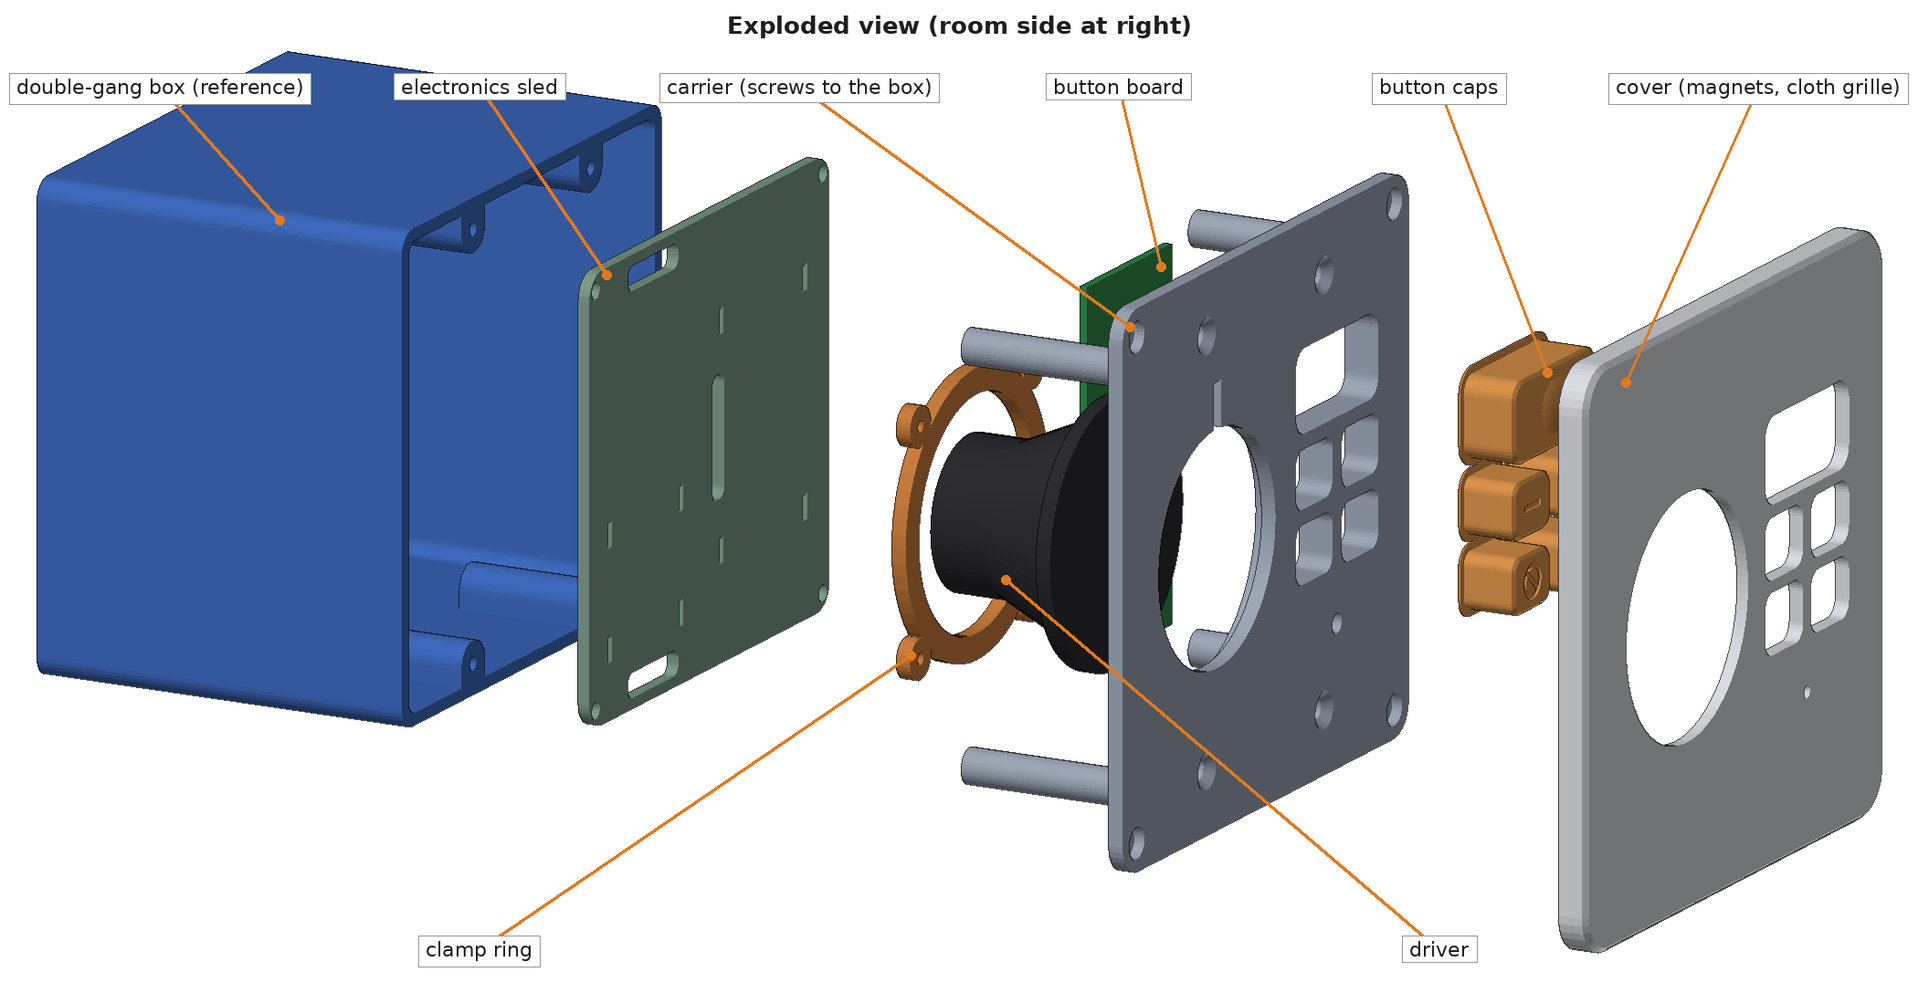
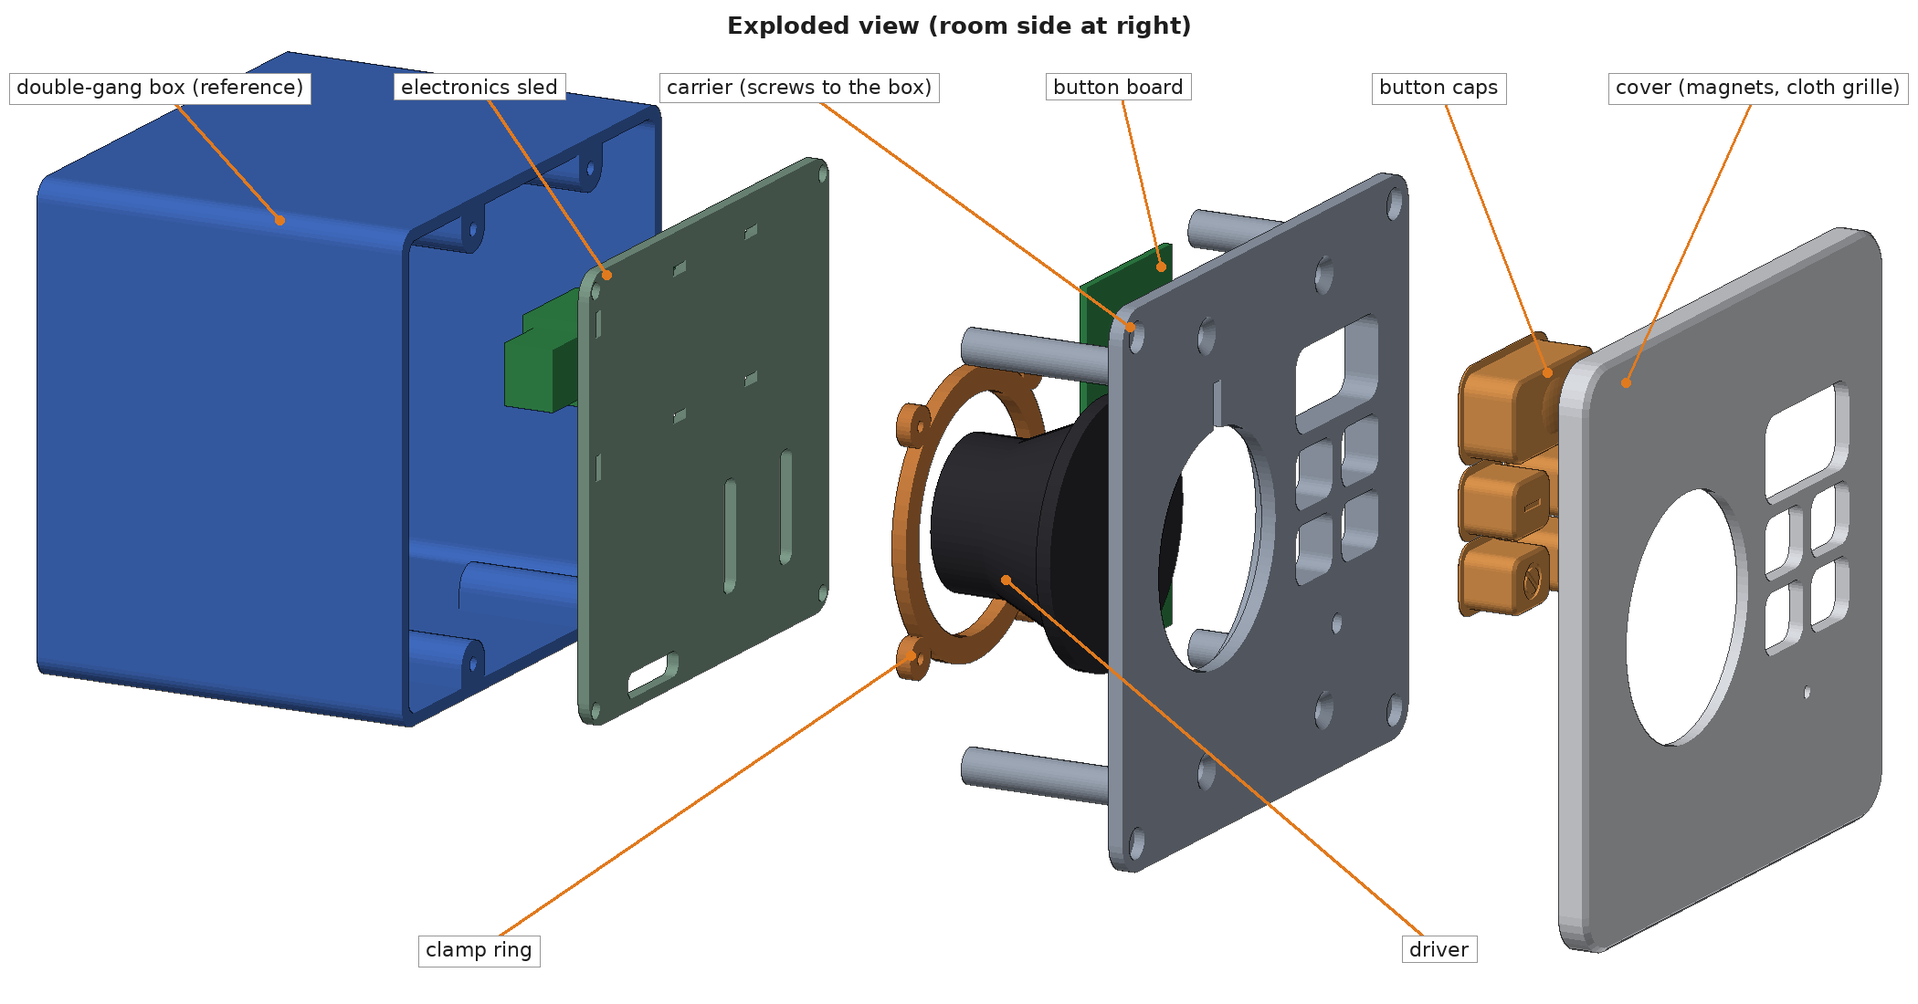
In-wall endpoint: PoE over Ethernet is the only power option
- Design: in-wall power is PoE only, wired Ethernet only; local supply
  and Wi-Fi options removed for this endpoint
- Sled: tray for a Waveshare ESP32-S3-ETH PoE board with its RJ45 jack
  at the edge, cable tie-down slots, amp tray moved
- Fit checks now include the board, jack, PoE module, and plug
- READMEs updated

Claude-Session: https://claude.ai/code/session_011vYEgnES57SmJcMte2QXM3

Changed region(s): [[0.2476, 0.2473, 0.3714, 0.4327], [0.3714, 0.3709, 0.4333, 0.5873]]

diff --git a/hardware/inwall/inwall_endpoint.py b/hardware/inwall/inwall_endpoint.py
@@ -5,8 +5,8 @@ Printed parts (PETG, no supports):
   carrier.stl       plate that screws to the box's four device holes and carries everything:
                     driver seat, button collars and board standoffs, mic pocket, LED groove,
                     and four posts for the electronics sled (print front face down)
-  sled.stl          plate that screws to the carrier posts behind the driver; holds the ESP32
-                    and amp (print flat, trays up)
+  sled.stl          plate that screws to the carrier posts behind the driver; holds the PoE
+                    ESP32 board and the amp (print flat, trays up)
   cover.stl         cosmetic wall plate held on by magnets; hides the screws, holds the grille
                     cloth (print front face down)
   button_caps.stl   TALK, VOL-, VOL+, MIC MUTE, BACKGROUND (print tops down)
@@ -99,7 +99,14 @@ SLED_Z = -38.0                     # front face of the sled; clears the 30.8 mm 
 SLED_T = 2.4
 SLED_W, SLED_H, SLED_R = 94.0, 87.0, 5.0
 M3_INSERT_D, M3_INSERT_DEPTH = 4.0, 6.0
-ESP_BOARD = (26.4, 70.5)           # ESP32-S3-DevKitC-1 footprint; change for a PoE board VERIFY
+# Waveshare ESP32-S3-ETH with its PoE module (the -POE- version): 72.8 x 21 mm, RJ45 at one end.
+# Power and data both come over the one Ethernet cable. Use the board without header pins, or
+# wire to the pads; the tray supports the board at its two ends so the pad rows stay clear. VERIFY
+ESP_BOARD = (72.8, 21.0)           # length along x, width along y
+ESP_X0, ESP_Y0 = -33.5, 11.5      # board corner on the sled; RJ45 jack is at the -x end
+ESP_LEDGE_H = 3.0
+ESP_STACK_H = 14.0                 # RJ45 jack and PoE module height above the board VERIFY
+RJ45_PLUG_LEN = 12.0               # how far an unbooted plug sticks out past the board VERIFY
 AMP_BOARD = (19.8, 18.2)           # MAX98357A breakout
 
 # Cover (wall plate)
@@ -214,33 +221,44 @@ def ledge_tray(x0, y0, bw, bl, z0, ledge_h=3.0, ledge=1.6, side_h=3.0, t=1.6):
     return union(parts)
 
 
+def end_tray(x0, y0, bl, bw, z0, ledge_h, side_h=3.0, t=1.6, ledge=4.0):
+    """Board rests on a ledge at each short end; corner walls locate it. The long edges stay
+    open for the pad rows, and the -x end is open for the RJ45 plug."""
+    parts = []
+    for xa in (x0, x0 + bl - ledge):
+        parts.append(box(xa, xa + ledge, y0, y0 + bw, z0, z0 + ledge_h))
+    for ya in (y0 - t, y0 + bw):                       # side walls at the four corners
+        for xa in (x0, x0 + bl - 10.0):
+            parts.append(box(xa, xa + 10.0, ya, ya + t, z0, z0 + ledge_h + side_h))
+    parts.append(box(x0 + bl, x0 + bl + t, y0 - t, y0 + bw + t, z0, z0 + ledge_h + side_h))   # stop at the +x end
+    return union(parts)
+
+
 def build_sled_local():
     """Sled in its print orientation: plate on z = 0..SLED_T, trays upward."""
     plate = rrect(0, 0, SLED_W, SLED_H, SLED_R, 0, SLED_T)
     adds = [plate]
-    ew, el = ESP_BOARD
-    ex0, ey0 = 8.0, -el / 2
-    adds.append(ledge_tray(ex0, ey0, ew, el, SLED_T - 0.01))
+    el, ew = ESP_BOARD
+    adds.append(end_tray(ESP_X0, ESP_Y0, el, ew, SLED_T - 0.01, ESP_LEDGE_H))
     aw, al = AMP_BOARD
-    ax0, ay0 = -34.0, 14.0
+    ax0, ay0 = -34.0, -32.0
     adds.append(ledge_tray(ax0, ay0, aw, al, SLED_T - 0.01))
-    # stiffening rib between the trays
-    adds.append(box(-2.0, 0.0, -SLED_H / 2 + 6, SLED_H / 2 - 6, SLED_T - 0.01, SLED_T + 4.0))
+    # stiffening rib between the two boards
+    adds.append(box(-SLED_W / 2 + 8, SLED_W / 2 - 8, 0.0, 2.0, SLED_T - 0.01, SLED_T + 4.0))
     sled = union(adds)
     cuts = []
     for x, y in POST_PTS:
         cuts.append(cyl(x, y, -1, SLED_T + 1, 3.4, seg=24))
-    # zip-tie slots: across the ESP32 and amp boards, and a free area for a PoE splitter
-    for y in (-22.0, 22.0):
-        for x in (ex0 - 4.2, ex0 + ew + 2.2):
-            cuts.append(box(x, x + 2.0, y - 2.5, y + 2.5, -1, SLED_T + 1))
-    for y in (-30.0, -8.0):
-        for x in (-40.0, -12.0):
-            cuts.append(box(x, x + 2.0, y - 2.5, y + 2.5, -1, SLED_T + 1))
-    # wire pass-through windows (speaker, buttons, mic)
-    cuts.append(rrect(-22.0, 39.0, 20.0, 5.0, 2.0, -1, SLED_T + 1))
+    # zip-tie slots across the ESP32 board, and a strain-relief pair for the Ethernet cable
+    for x in (ESP_X0 + 22.0, ESP_X0 + 50.0):
+        for y in (ESP_Y0 - 4.6, ESP_Y0 + ew + 2.6):
+            cuts.append(box(x - 2.5, x + 2.5, y, y + 2.0, -1, SLED_T + 1))
+    for y in (6.0, 33.5):
+        cuts.append(box(-44.5, -42.5, y - 2.5, y + 2.5, -1, SLED_T + 1))
+    # wire pass-through windows (speaker, buttons, mic, LED)
     cuts.append(rrect(-22.0, -39.0, 20.0, 5.0, 2.0, -1, SLED_T + 1))
-    cuts.append(rrect(3.5, 0.0, 5.0, 24.0, 2.0, -1, SLED_T + 1))
+    cuts.append(rrect(30.0, -20.0, 5.0, 22.0, 2.0, -1, SLED_T + 1))
+    cuts.append(rrect(8.0, -20.0, 5.0, 22.0, 2.0, -1, SLED_T + 1))
     return sled - union(cuts)
 
 
@@ -347,10 +365,14 @@ def dummy_button_board():
 
 
 def dummy_esp():
-    ew, el = ESP_BOARD
-    b = box(8.0, 8.0 + ew, -el / 2, el / 2, SLED_T + 3.0, SLED_T + 4.6)
-    b = union([b, box(8.0 + ew / 2 - 9, 8.0 + ew / 2 + 9, -el / 2 + 2, -el / 2 + 27, SLED_T + 4.6, SLED_T + 7.8)])
-    return b.mirror([0, 0, 1]).translate([0, 0, SLED_Z])
+    """ESP32-S3-ETH board with its RJ45 jack and PoE module, plus an unbooted plug."""
+    el, ew = ESP_BOARD
+    zb = SLED_T + ESP_LEDGE_H
+    board = box(ESP_X0, ESP_X0 + el, ESP_Y0, ESP_Y0 + ew, zb, zb + 1.6)
+    jack = box(ESP_X0, ESP_X0 + 21.0, ESP_Y0 + 2.5, ESP_Y0 + ew - 2.5, zb + 1.6, zb + 1.6 + ESP_STACK_H)
+    poe = box(ESP_X0 + 26.0, ESP_X0 + 60.0, ESP_Y0 + 1.5, ESP_Y0 + ew - 1.5, zb + 1.6, zb + 1.6 + ESP_STACK_H - 2.0)
+    plug = box(ESP_X0 - RJ45_PLUG_LEN, ESP_X0 + 0.01, ESP_Y0 + 4.5, ESP_Y0 + ew - 4.5, zb + 3.0, zb + 1.6 + ESP_STACK_H - 2.5)
+    return union([board, jack, poe, plug]).mirror([0, 0, 1]).translate([0, 0, SLED_Z])
 
 
 # ------------------------------------------------------------------ export
@@ -385,6 +407,7 @@ if __name__ == "__main__":
         "driver^carrier": vol(drv, car), "driver^sled": vol(drv, sled), "driver^ring": vol(drv, ring),
         "ring^carrier": vol(ring, car), "board^carrier": vol(board, car), "board^caps": vol(board, capu),
         "board^driver": vol(board, drv), "board^ring": vol(board, ring), "esp^box": vol(esp, bx),
+        "esp^sled": vol(esp, sled), "esp^carrier": vol(esp, car),
         "switches^carrier": vol(sws, car),
     }
 
@@ -411,7 +434,7 @@ if __name__ == "__main__":
     info = dict(
         cover_mm=[round(COVER_W, 1), round(COVER_H, 1), COVER_T + CAR_T],
         carrier_mm=[CAR_W, CAR_H, CAR_T],
-        depth_behind_wall_mm=round(-SLED_Z - CAR_T + SLED_T + 3.0 + 1.6 + 9.0, 1),
+        depth_behind_wall_mm=round(-SLED_Z - CAR_T + SLED_T + ESP_LEDGE_H + 1.6 + ESP_STACK_H, 1),
         box_depth_mm=BOX_DEPTH,
         board_standoff_len=round(STANDOFF_LEN, 2), switch_top_z=round(SWITCH_TOP, 2),
         watertight={k: v.is_watertight for k, v in dict(carrier=tc, cover=tv, sled=ts, ring=tr, caps=tcap, box=tb).items()},

diff --git a/hardware/inwall/render_views.py b/hardware/inwall/render_views.py
@@ -90,15 +90,15 @@ label(img, items, "Carrier from behind").save("renders/render_carrier_back.png")
 
 # 4. assembled in the box, top of the box cut away
 import manifold3d as m3
-bx = W.build_box() ^ W.box(-200, 200, -200, 4, -200, 200)
+bx = W.build_box() ^ W.box(-200, 200, -200, -8, -200, 200)
 tb = W.to_trimesh(bx); tb.apply_transform(A)
 parts = [(tb, BOX), (load("carrier"), CAR), (load("ring"), RING), (load("driver"), DRV), (load("board"), PCB),
          (load("switches"), DRV), (load("sled"), SLED), (load("esp"), PCB), (load("cover"), PLATE), (load("caps"), CAP)]
 img, ctx = render(parts, elev=38, azim=200, size=(1700, 1250), light=(0.3, 0.6, 0.7))
 items = place(img, [
-    (P(ctx, 22, 20, W.SLED_Z - 8), "ESP32 on the sled"),
-    (P(ctx, -30, 30, W.SLED_Z - 2.4), "sled"),
-    (P(ctx, -24, 23, W.SLED_Z - 6), "amp tray"),
+    (P(ctx, 12, 24, W.SLED_Z - W.SLED_T - 18), "PoE ESP32 board"),
+    (P(ctx, W.ESP_X0 - 8, 22, W.SLED_Z - W.SLED_T - 12), "Ethernet plug (power + data)"),
+    (P(ctx, 40, 40, W.SLED_Z - 1), "sled"),
     (P(ctx, 30, 36.5, W.BOARD_Z - 0.8), "button board"),
     (P(ctx, 44.5, 40.2, -22), "sled post"),
     (P(ctx, 46, -10, -72), "box (top half cut away)"),

diff --git a/docs/design.md b/docs/design.md
@@ -246,7 +246,7 @@ Network share or local disk (music files) -> MPD on the Pi 5 -> FIFO pipe -> Sna
 | Type | Section | What it is | Status |
 |---|---|---|---|
 | Tabletop | 3.4 | Printed desktop speaker, USB-C, battery backup, woofer and tweeter | Reference build. Enclosure designed, not yet printed |
-| In-wall | 3.1 | Mono speaker and mic behind a printed plate in a double-gang box, PoE | Optional. Parts modeled, not yet printed |
+| In-wall | 3.1 | Mono speaker and mic behind a printed plate in a double-gang box. One Ethernet cable carries power (PoE) and data | Optional. Parts modeled, not yet printed |
 | HiFi | 3.2, 3.3 | Raspberry Pi feeding stereo speakers or an existing receiver | Optional |
 
 The tabletop endpoint is the one being built first. The in-wall endpoint is kept in the design as an option for anyone who wants speakers in the walls. Both use the same electronics, mic privacy circuit, buttons, and firmware, which are described once in 3.1.1 and 3.1.2 and referred to from the tabletop section.
@@ -263,8 +263,9 @@ The tabletop endpoint is the one being built first. The in-wall endpoint is kept
 |---|---|---|
 | Speaker | One 2 in. full-range driver, sealed in the box | 2.5 in. woofer and dome tweeter, transmission line |
 | Amp | One MAX98357A | Two MAX98357A, software crossover |
-| Power | PoE preferred | USB-C with 18650 backup |
-| Network | Ethernet preferred | Wi-Fi |
+| Power | PoE only, over the Ethernet cable | USB-C with 18650 backup |
+| Network | Wired Ethernet only (the same cable) | Wi-Fi |
+| MCU board | ESP32-S3 with Ethernet and a PoE module | ESP32-S3-DevKitC-1 |
 | Enclosure | Double-gang box, printed plate and bracket | Printed case |
 | Install | Low-voltage wiring in the wall | None |
 
@@ -272,9 +273,9 @@ The tabletop endpoint is the one being built first. The in-wall endpoint is kept
 
 **MCU**
 
-- ESP32-S3 with PSRAM (for example ESP32-S3-WROOM-1 N8R8).
-- Preferred: an ESP32-S3 board with onboard Ethernet and PoE (Waveshare and LilyGO both make these). See Power.
-- The S3 has two I2S peripherals: I2S0 drives the amplifier, I2S1 reads the microphone.
+- ESP32-S3 with PSRAM. The S3 has two I2S peripherals: I2S0 drives the amplifier, I2S1 reads the microphone.
+- In-wall: an ESP32-S3 board with onboard Ethernet and a PoE module. The model is built around the Waveshare ESP32-S3-ETH in its PoE version (72.8 x 21 mm, W5500 Ethernet, 802.3af PoE module, 16 MB flash, 8 MB PSRAM). Its Ethernet chip uses GPIO 9 to 14 internally, which leaves enough pins for the amp, mic, buttons, and LED.
+- Tabletop: ESP32-S3-DevKitC-1 on Wi-Fi (3.4.3).
 
 **Amplifier**
 
@@ -370,18 +371,14 @@ Rule for all endpoints: no LED points at the room. The light is a soft glow seen
 - **Per room:** green can be turned off in firmware for any room. The red glow can be dimmed further with its resistor, or left unpopulated in a room that should be fully dark, at the cost of losing the at-a-glance proof that the mic is off.
 - Open question: in a bedroom where the mic stays muted, the red glow is on all night, however dim. A hardware-only alternative is a timed glow that lights for about 10 s after MIC MUTE or TALK is pressed (an RC timer on the latch output, no firmware involved).
 
-**Power**
+**Power (in-wall): PoE over the Ethernet cable, and nothing else**
 
-Preferred: PoE.
-
-- 802.3af PoE to each endpoint, either on an ESP32-S3 board with integrated PoE or through a PoE splitter to 5 V.
-- Benefits: one Class 2 cable per room, wired sync and control, central UPS backup, no line voltage in the wall at the endpoint.
-- Budget: ESP32-S3 Wi-Fi/Ethernet peaks plus a 3 W amp into 4 ohms. Plan for 5 V at 2 A at the endpoint. 802.3af covers this.
-
-Alternate: local 5 V supply.
-
-- Isolated 120 V to 5 V, 2 A minimum supply in a separate, accessible box.
-- Line-voltage and Class 2 wiring are not in the same box unless separated by a listed barrier.
+- Each in-wall endpoint is powered and connected by one Ethernet cable from a PoE switch (802.3af). There is no other power option for the in-wall endpoint: no local supply, no line voltage in or near the box, and no Wi-Fi.
+- Why PoE only: the cable is low-voltage (Class 2), so it can run in the wall and into the box without the code problems of a 120 V supply. It gives wired sync and control, and one UPS on the switch backs up every in-wall endpoint.
+- Budget: the ESP32-S3 with Ethernet plus a 3 W amp into 4 ohms. Plan for 5 V at 2 A at the endpoint, about 10 W. 802.3af provides up to about 13 W at the device, so it covers this.
+- The PoE module on the board is the only supply. Do not plug in USB while PoE is connected; on the Waveshare board the two are not isolated from each other. For bench work, use one or the other.
+- What it needs: a Cat5e or Cat6 run to each box and a PoE switch (or a PoE injector per run). This is the reason the in-wall endpoint suits new construction or a remodel.
+- The tabletop endpoint is the answer where pulling cable is not practical (3.4).
 
 **Mechanical**
 
@@ -393,12 +390,14 @@ The model is in `hardware/inwall/` (`inwall_endpoint.py`). Everything mounts to 
 | Printed part | What it does |
 |---|---|
 | Carrier | 112 x 108 x 3 mm plate that screws to the box's four device holes with 6-32 flat-head screws. Its back carries the driver seat and clamp bosses, the five button guide collars, button board standoffs, a mic pocket, and four posts for the sled. A groove in its front face holds the status LED behind the cloth |
-| Sled | 94 x 87 mm plate that screws to the four posts, 35 mm behind the carrier, clear of the driver. Trays for the ESP32 and amp, zip-tie slots (including a free area for a PoE splitter), and wire pass-throughs |
+| Sled | 94 x 87 mm plate that screws to the four posts, 35 mm behind the carrier, clear of the driver. A tray for the PoE ESP32 board with its RJ45 jack at the edge, a tray for the amp, zip-tie slots (including a pair to tie down the Ethernet cable), and wire pass-throughs |
 | Cover | 117 x 113 mm wall plate, close to a standard double-gang plate. Held on by four pairs of 6 x 2 mm magnets, so no screws show. Speaker cloth is glued behind its 48 mm opening. Openings for the five caps and a mic port. No light window: the status glow shows through the speaker cloth |
 | Button caps | Same moving-cap stack as the tabletop: guide collar, retaining flange, stem on a 6x6 tact switch. TALK is 32 x 16 mm; the other four are 14 x 11 mm |
 | Driver ring | Clamps the 2 in. driver into its seat with four M2 screws |
 
-- **Stack depth:** about 51 mm behind the wall surface to the back of the ESP32, in a box about 74 mm deep inside. That leaves about 23 mm for cable.
+- **Stack depth:** about 56 mm behind the wall surface to the top of the RJ45 jack and PoE module, in a box about 74 mm deep inside. That leaves about 18 mm behind the board.
+- **Ethernet cable:** the plug enters the jack sideways, in the plane of the sled, and the model allows 12 mm for it. Terminate the in-wall cable with a plain unbooted plug, or use a short slim patch lead from a keystone jack, and tie the cable to the sled so the jack carries no strain.
+- **ESP32 board:** use the version without header pins, or wire straight to the pads. The tray holds the board at its two ends so the pad rows stay clear.
 - **Button board:** perfboard about 33 x 73 mm on four 10.25 mm standoffs.
 - **Status LED:** lies in a 3.2 x 1.8 mm groove in the carrier's front face at the top of the speaker opening, with a wire hole through the carrier. The cover and the cloth sit over it.
 - **Mic:** a round INMP441 breakout drops into the pocket and is held with a dab of glue. A foam ring between the carrier and the cover seals the port to the room.
@@ -407,7 +406,7 @@ The model is in `hardware/inwall/` (`inwall_endpoint.py`). Everything mounts to 
 
 Hardware: 4 x 6-32 flat-head device screws (the box usually comes with them), 4 x M3 heat-set inserts and M3 x 6 screws for the sled, 4 x M2 heat-set inserts and M2 x 6 screws for the driver ring, 4 x M2 self-tapping screws for the button board, 8 x 6 x 2 mm magnets, 5 tact switches.
 
-Verify against parts in hand: box interior size and the depth of its screw bosses, driver flange and basket size, INMP441 board diameter and port position, tact switch height, and the ESP32 board footprint (the tray is sized for a DevKitC-1; a PoE board will need its own size).
+Verify against parts in hand: box interior size and the depth of its screw bosses, driver flange and basket size, INMP441 board diameter and port position, tact switch height, the height of the PoE board's RJ45 jack and PoE module (the model assumes 14 mm), and how far the Ethernet plug sticks out.
 
 #### 3.1.2 Firmware
 
@@ -500,7 +499,7 @@ All volume values map to gain on a dB curve (for example 0 to 100 maps to -60 dB
 **Tasks**
 
 - **Network task**
-  - Ethernet (preferred) or Wi-Fi with reconnect.
+  - In-wall: wired Ethernet (W5500 over SPI). Tabletop: Wi-Fi with reconnect.
   - Connects to Snapserver, the intercom multicast group, and the MQTT broker.
 
 - **Audio mix and playback task**

diff --git a/hardware/inwall/README.md b/hardware/inwall/README.md
@@ -14,7 +14,7 @@ The electronics, mic privacy circuit, buttons, and firmware are the same as the 
 
 - A standard double-gang new-work box (Carlon B232A class) used as a sealed speaker enclosure
 - One 2 in. full-range driver (Dayton Audio CE52N-4) and one MAX98357A amp
-- ESP32-S3, with Ethernet and PoE preferred so one low-voltage cable powers and connects it
+- An ESP32-S3 board with Ethernet and a PoE module (Waveshare ESP32-S3-ETH, PoE version). One Ethernet cable from a PoE switch powers and connects it. There is no other power option
 - INMP441 mic behind a gasketed port
 - Five moving button caps: TALK, VOL -, VOL +, MIC MUTE, BACKGROUND
 - A cover held on by magnets, so no screws show
@@ -51,7 +51,7 @@ PETG, no supports. The carrier's sled posts are 35 mm tall and 7 mm across; slow
 2. Seat the driver in the carrier and clamp it with the ring.
 3. Drop the five caps into their collars from the back, then screw the button board onto its standoffs. The board holds the caps in.
 4. Seat the mic in its pocket, port toward the room. Lay the status LED in the groove at the top of the speaker opening, facing the centre, with its wires through the hole.
-5. Fit the ESP32 and amp to the sled, wire everything, and screw the sled to the posts.
+5. Fit the PoE ESP32 board and the amp to the sled, wire everything, and screw the sled to the posts. Plug in the Ethernet cable and tie it to the sled.
 6. Screw the carrier to the box with the four device screws, with foam tape between the carrier and the wall.
 7. Glue cloth behind the cover's speaker opening, put a foam ring around the mic port, and set the cover on.
 
@@ -67,9 +67,10 @@ python3 render_views.py        # writes preview images to renders/
 
 The script reports the overlap between every pair of parts, the dummy components, and the box. All should be zero.
 
-Dimensions marked `VERIFY` are estimates. The ones that matter most: the box's interior size and how far its screw bosses reach in, the driver's flange and basket, the mic board's diameter and port position, and the ESP32 board footprint. The tray fits a DevKitC-1; a PoE board will need `ESP_BOARD` changed.
+Dimensions marked `VERIFY` are estimates. The ones that matter most: the box's interior size and how far its screw bosses reach in, the driver's flange and basket, the mic board's diameter and port position, the height of the PoE board's RJ45 jack and PoE module, and how far the Ethernet plug sticks out. For a different PoE board, change `ESP_BOARD`.
 
 ## Before installing in a wall
 
-- Use PoE or a listed low-voltage supply. Do not put line voltage and the endpoint's wiring in the same box without a listed barrier.
+- Power is PoE only. Never bring line voltage into this box.
+- Run the Ethernet cable from a PoE switch or injector. Do not connect USB while PoE is plugged in.
 - Use in-wall-rated cable, and follow local electrical code.

diff --git a/README.md b/README.md
@@ -57,7 +57,7 @@ flowchart LR
 | Controller | Raspberry Pi 5 running Snapcast for music, the intercom server, MQTT, and a local web app |
 | Music library | Plex mode: Plex Media Server with a headless Plexamp player on the Pi, controlled from Plexamp. Share mode: a network share played by MPD on the Pi, controlled from a web page or any MPD app. Either one feeds Snapcast |
 | Tabletop endpoint | ESP32-S3, 2.5 in. woofer and dome tweeter in a folded transmission line, USB-C power, battery backup. This is the reference build |
-| In-wall endpoint (optional) | ESP32-S3, 2 in. speaker, and mic behind a printed plate in a double-gang box, PoE preferred. Same electronics and firmware. Parts are modeled, not yet printed |
+| In-wall endpoint (optional) | ESP32-S3, 2 in. speaker, and mic behind a printed plate in a double-gang box. One Ethernet cable brings power (PoE) and data; there is no other power option. Same audio electronics and firmware. Parts are modeled, not yet printed |
 | Phone apps | Push-to-talk apps for iPhone (WebRTC and Apple's PushToTalk framework) and Android (WebRTC and a foreground service) |
 | Rendezvous server (default) | A small hosted server that helps the phone and the house find each other and punch through to each other. It relays encrypted audio and never holds the keys |
 | Direct mode (optional) | No hosted server. The router forwards two ports to the Pi's remote gateway. Simpler and free, but it exposes a service at home to the internet |
